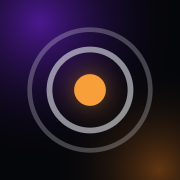
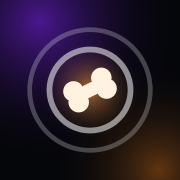
Logoya kemik ekle
Halkaların ortasındaki nokta, ortopediye gönderme olarak fildişi bir kemikle
değiştirildi; arkasında kehribar hale duruyor.

Küçük boyda (uygulama içi 24px işaret) iki halka + kemik okunmuyordu;
o boy için işaret tek halkaya sadeleştirildi ve kemik büyütüldü.

Changed region(s): [[0.3333, 0.3611, 0.6667, 0.6667]]

diff --git a/tools/make-icons.js b/tools/make-icons.js
@@ -38,7 +38,24 @@ function draw(S) {
     [S * 0.335, S * 0.026, 0.26],
     [S * 0.225, S * 0.032, 0.58],
   ];
-  const dotR = S * 0.088;
+
+  // Ortadaki kemik — geometri (döndürülmemiş, merkez orijinde)
+  const bone = {
+    halfSpan: S * 0.143,   // lobe merkezlerinin yatay uzaklığı + lobe yarıçapı
+    lobeR:    S * 0.057,   // lobe (topuz) yarıçapı
+    shaftH:   S * 0.037,   // gövde yarı kalınlığı
+    lobeDy:   S * 0.033,   // lobe merkezlerinin dikey ayrımı
+    tilt:     -26 * Math.PI / 180
+  };
+  bone.lobeDx = bone.halfSpan - bone.lobeR;
+  const cosT = Math.cos(bone.tilt), sinT = Math.sin(bone.tilt);
+  const ivory = [255, 242, 223];
+
+  // noktadan doğru parçasına uzaklık (gövde için)
+  const segDist = (px, py, ax) => {
+    const t = Math.max(-ax, Math.min(ax, px));
+    return Math.hypot(px - t, py);
+  };
 
   for (let y = 0; y < S; y++) for (let x = 0; x < S; x++) {
     let col = [5, 6, 10];
@@ -57,13 +74,20 @@ function draw(S) {
       if (cover > 0) col = mix(col, platinum, cover * op);
     }
 
-    // merkez noktanın halesi
-    const halo = clamp01(1 - d / (dotR * 3.1));
-    if (halo > 0) col = mix(col, amber, Math.pow(halo, 2.6) * 0.5);
+    // kemiğin arkasındaki kehribar hale
+    const halo = clamp01(1 - d / (bone.halfSpan * 2.0));
+    if (halo > 0) col = mix(col, amber, Math.pow(halo, 1.9) * 0.66);
 
-    // merkez nokta
-    const dot = clamp01(dotR + 0.5 - d);
-    if (dot > 0) col = mix(col, amber, dot);
+    // kemik: gövde + dört topuz birleşimi (işaretli uzaklık ile yumuşak kenar)
+    const lx = (x - cx + 0.5) * cosT + (y - cy + 0.5) * sinT;
+    const ly = -(x - cx + 0.5) * sinT + (y - cy + 0.5) * cosT;
+    let sd = segDist(lx, ly, bone.lobeDx) - bone.shaftH;
+    for (const sx of [-1, 1]) for (const sy of [-1, 1]) {
+      const dl = Math.hypot(lx - sx * bone.lobeDx, ly - sy * bone.lobeDy) - bone.lobeR;
+      if (dl < sd) sd = dl;
+    }
+    const boneCover = clamp01(0.5 - sd);
+    if (boneCover > 0) col = mix(col, ivory, boneCover);
 
     const o = (y * S + x) * 4;
     buf[o] = Math.round(col[0]); buf[o+1] = Math.round(col[1]); buf[o+2] = Math.round(col[2]); buf[o+3] = 255;

diff --git a/index.html b/index.html
@@ -31,10 +31,15 @@
   <section class="screen" data-screen="hospitals" data-active>
     <header>
       <div class="wordmark">
-        <svg viewBox="0 0 24 24" width="17" height="17" aria-hidden="true">
-          <circle cx="12" cy="12" r="9.1" fill="none" stroke="currentColor" stroke-width="1.4" opacity=".28"/>
-          <circle cx="12" cy="12" r="5.7" fill="none" stroke="currentColor" stroke-width="1.6" opacity=".62"/>
-          <circle cx="12" cy="12" r="2.5" fill="hsl(32 94% 60%)"/>
+        <svg viewBox="0 0 24 24" width="24" height="24" aria-hidden="true">
+          <!-- Küçük boyda sadeleşmiş işaret: tek halka + kemik -->
+          <circle cx="12" cy="12" r="10.4" fill="none" stroke="currentColor" stroke-width="1.2" opacity=".3"/>
+          <circle cx="12" cy="12" r="7.4" fill="hsl(32 94% 58%)" opacity=".18"/>
+          <g transform="rotate(-26 12 12)" fill="#fff2df">
+            <rect x="8.3" y="10.4" width="7.4" height="3.2" rx="1.6"/>
+            <circle cx="8.3" cy="10.55" r="2.5"/><circle cx="8.3" cy="13.45" r="2.5"/>
+            <circle cx="15.7" cy="10.55" r="2.5"/><circle cx="15.7" cy="13.45" r="2.5"/>
+          </g>
         </svg>
         <span>Find My <b>Asistan</b></span>
       </div>

diff --git a/sw.js b/sw.js
@@ -1,5 +1,5 @@
 // Çevrimdışı çalışma. Kabuk dosyaları önbellekten, veri dosyası önce ağdan.
-const VERSION = 'asistan-panel-v7';
+const VERSION = 'asistan-panel-v9';
 const SHELL = [
   './', './index.html', './manifest.webmanifest',
   './styles/app.css',

diff --git a/CLAUDE.md b/CLAUDE.md
@@ -7,6 +7,13 @@ Acıbadem Üniversitesi Ortopedi ve Travmatoloji — 4 hastane, 6 asistan.
 **Her oturumun başında `PROGRESS.md` dosyasını oku**, hangi fazda kalındığını oradan öğren ve
 iş bitirdikçe oradaki kutucukları güncelle.
 
+## İkon ve marka
+Konum işareti: eş merkezli halkalar + ortada fildişi bir kemik (ortopedi göndermesi),
+arkasında kehribar hale. `node tools/make-icons.js` 180/192/512 PNG üretir — bağımlılık yok,
+geometri dosyanın başındaki `bone` nesnesinden ayarlanır.
+Uygulama içindeki küçük işaret `index.html`'de satır içi SVG; küçük boyda okunurluk için
+sadeleştirilmiş (tek halka + daha büyük kemik). İkonun iki hali kasıtlı olarak farklı.
+
 ## Kurallar
 - **Derleme adımı yok.** Saf HTML + CSS + ES modülleri. Framework, bundler, npm bağımlılığı ekleme.
 - Animasyonlar yalnızca `transform` ve `opacity` üzerinden — 60fps korunmalı.
